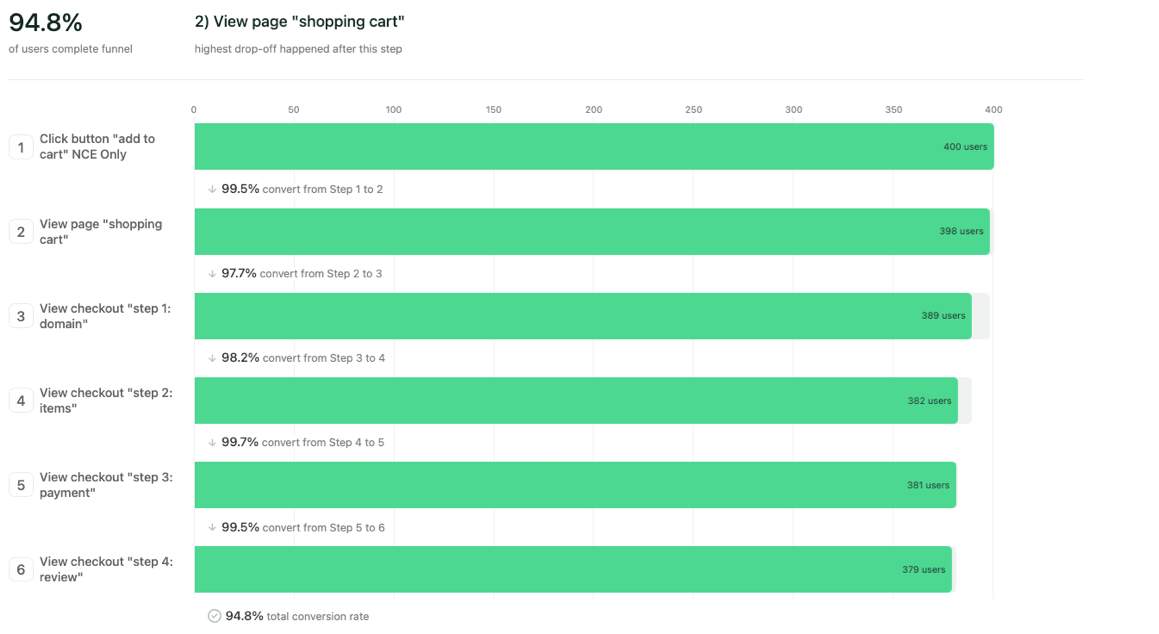
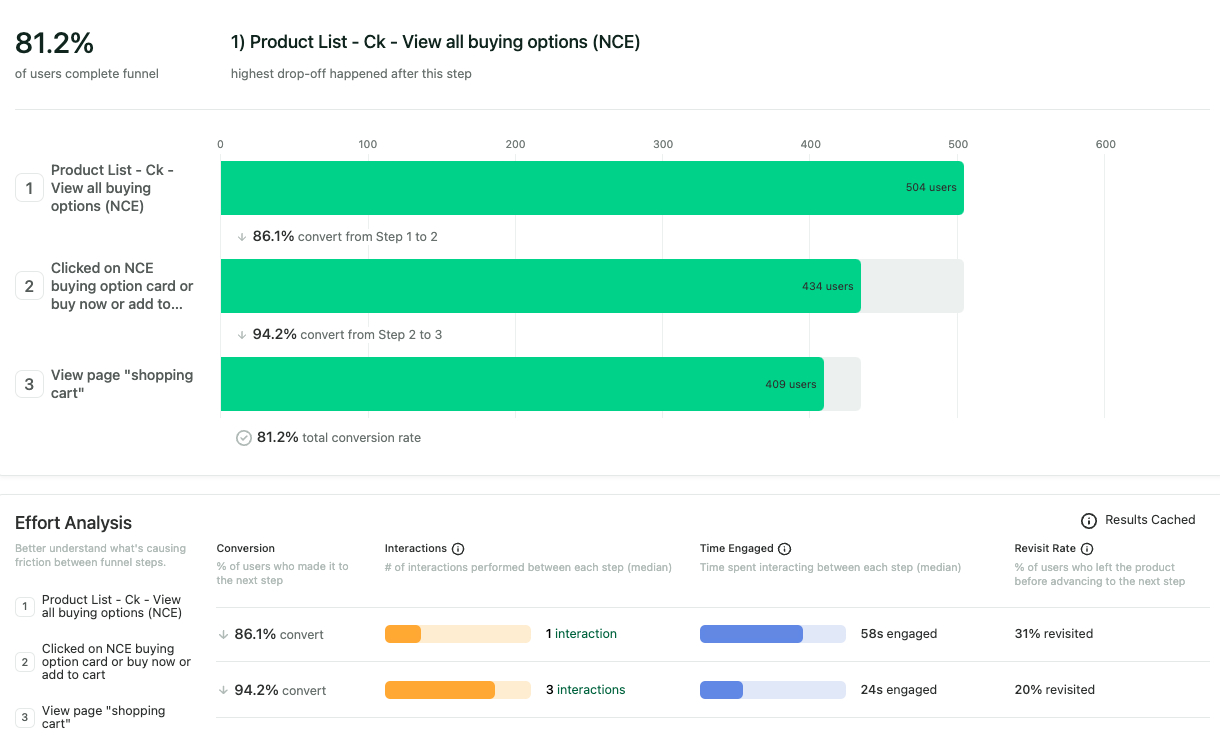
re-doing teh NCE adoption section

diff --git a/NCE.html b/NCE.html
@@ -201,7 +201,7 @@ This project involved numerous meetings and discussions with key stakeholders an
                                <p class="portfolio-detail-body">
                               
                         I also spoke to partners during monthly recurring customer preview calls. The feedback from partners was that they wanted the new functionality being 
-                        introduced by Microsoft and they felt that their customers would also demand these enhancements. Speaking to development managers from within the business 
+                        introduced by Microsoft and they felt that their customers would also demand these enhancements. Speaking to stakeholders from within the business 
                         they gave me the same feedback from customers. So both the business and our customers were aligned that these changes were needed and a top priority.
                         
                                </p>
@@ -318,7 +318,7 @@ This project involved numerous meetings and discussions with key stakeholders an
 	            <div class="col-xs-12 number-heading research-padding">
 	              <p class="portfolio-detail-body ">
 	 As part of the New Commercial Experience Microsoft introduced an additional purchasing option that had to be brought into the portal. Up to this point there were two purchasing 
-   options 1) Monthly Billing with a Monthly Commitmentand 2) Yearly Billing with an Annual Commitment. The New Commerce Experience <b>added a third option - an Annual Commitment Term with a Monthly Billing option.</b>
+   options 1) Monthly Billing with a Monthly Commitmentand 2) Yearly Billing with an Annual Commitment. The <b>New Commerce Experience added a third option - an Annual Commitment Term with a Monthly Billing option.</b>
    Reviewing the portal it became clear that <b>the purchasing cards in use would not be suitable for this additional third buying option.</b> This lead to a re-design of the product list and product detail pages.
   
 	         </p>
@@ -389,7 +389,8 @@ This project involved numerous meetings and discussions with key stakeholders an
                                 <div class="col-lg-6">
                              <p class="portfolio-detail-body">
 
-                            An early approach was to to introduce the thrid buying option onto the product card in the product list. This design was tested but failed the UAT with users, as it was 
+                            An early approach was to to introduce the thrid buying option onto the product card in the product list.
+                             This design was tested with users, but it was 
                             felt to be overly complex and confusing.     </p>
 
                             <p class="portfolio-detail-body">
@@ -414,7 +415,7 @@ This project involved numerous meetings and discussions with key stakeholders an
                               
                             <p class="portfolio-detail-body">
                               
-                              A better approach was to use one purchasing option on the product card where the 'Buy Now'
+                              A re-designed approach was to use one purchasing option on the product card where the 'Buy Now'
                                button would be changed to 
                                'View all buying options', the user flow would now change to go into the product card detail where the user could
                                choose a buying option and then move into the checkout flow.
@@ -470,7 +471,7 @@ This project involved numerous meetings and discussions with key stakeholders an
                                     The third buying option was introduced into the product detail card. This lead to a complete re-design of this page.
                               
                                     Initially the purchasing offerings were grouped by the commitment term, being either monthly or annual. 
-                                    The additional billing options were then displayed. <b>This approach was tested with users in the business and was felt to be too complex</b>, so was not chosen as a final design proposal.
+                                    The additional billing options were then displayed. This approach was tested with users in the business and was felt to be too complex, so was not chosen as a final design proposal.
                                                  </p>
                                                  </div>
 
@@ -525,10 +526,16 @@ This project involved numerous meetings and discussions with key stakeholders an
                   <div class="row">
                     <div class="col-xs-12">
                       <h3 class="number-subheading  solace-padding">
-                       Funnel: Cart > Checkout Analysis </h3>
+                       Funnel: Product > Shopping Cart Analysis </h3>
                       <p class="portfolio-detail-body">
-                 It was important to analyse user adoption of the new buying cards. Heap Analytics was used for this data analysis.
-                  A new event was defined in Heap and used to include the New Commerce products in the Cart > Checout funnel.
+                 It was important to analyse user adoption of the new buying cards in the product list/catalogue as well as in the product detail.
+                  Heap Analytics was used for this data analysis.
+                  New events were defined in Heap and used to count engagement with the new NCE product cards in the product list page. The clicks
+                  on the 'View all buying options' button on the NCE card were obtained. When the user clicks on this button they are taken to the product detail page.
+                  The engagement on the new NCE product options were defined in an event along with the clicks on the 'Buy Now' or 'Add to Cart' buttons on this page.
+                  The conversion was measured between these steps and from there the conversion to the shopping cart page was also included.
+                  </p>
+                  <p class="portfolio-detail-body">
                   The intention was to validate the new design and to also obtain quantitative data that backed up the qualitative feedback from 
                   users during the UAT sessions of the new purchasing cards. The analysis was run for a 6 month period, following on from the 
                   deployment of the new cards to production in March 2022.
@@ -543,7 +550,7 @@ This project involved numerous meetings and discussions with key stakeholders an
                                        <div class="row">
                                         <div class="col-xs-6">
                                           <h2 class="retro-sub-heading2 ">
-                                           Funnel: Cart > Checkout (March 1st - Aug 31st 2022) </h2>
+                                           Funnel: NCE Product > Shopping Cart (March 1st - Aug 31st 2022) </h2>
                     
                                            </div> 
                                            </div>
@@ -560,12 +567,27 @@ This project involved numerous meetings and discussions with key stakeholders an
                                                  <div class="row">
                                                   <div class="col-xs-12 ">
                                                   <p class="portfolio-detail-body">
-                                                    The New Commerce card funnel had a conversion rate of 94.8% for the same period analysed. 
-                                             
-                          
-                                                    The highest drop-off for New Commerce was happening in step 2 - the shopping cart page.
-                                                    Some users were moving into the cart but they were not continuing to the checkout to complete the buying journey.
-                                                    A separate piece of analysis was undertaken to determine reasons for user abandonment in step 2 of the funnel. However the overall
+                                                   
+                                                    The overall conversion rate from users clicking on the NCE product in the product list
+                                                     to adding the item and moving to the checkout page was 81.2% for the period analysed.
+                                                     The median time engaged with the buying option cards in the product detail was 58 seconds.
+                                                     So it was taking users less than a minute to find the offering they needed before deciding to buy 
+                                                     and moving to the checkout page.
+                                                    </p>
+                                                    
+                                                    <p class="portfolio-detail-body">
+                                                    The highest drop-off for was happening in step 1 - the product detail page.
+                                                    Some users were moving into the product detail but they were not continuing to the checkout to complete the buying journey.
+                                                    A separate piece of analysis was undertaken to determine reasons for user abandonment in step 1 of the funnel. It was determined that this 
+                                                    abandonment could be users searching for a different product, adding to cart but not moving to the cart or being logged off the portal. 
+                                                    </p>
+                                                    <p class="portfolio-detail-body">
+                                                    The steps taken to improve the drop off from users included a re-design of the product catalogue<A href="catalogue.html"><b class="blue-brand"> (view project) </b></a> so the products listed would 
+                                                    be based on partners frequent order history,
+                                                    thus helping them find 
+                                                     products they needed. The mini-cart was also re-designed to introduce common design patters <A href="cart.html"><b class="blue-brand">(view project)</b></a>, and the logoff time in the portal was
+                                                     increased from 5 minutes to 15 minutes.
+                                                    However the overall
                                                     conversion rate was very positive and validated the new design.
                                                        </p>
                                                   
@@ -576,7 +598,7 @@ This project involved numerous meetings and discussions with key stakeholders an
 
 
                                      <div class="row">
-                                    <div class="col-lg-12 solace-padding">
+                                    <div class="col-lg-12 image-padding">
                                       <h1 class="adoption-metrics">
                                      <U>Adoption Stats - (March 1st - Aug 31st 2022)</U></h1>
                                    
@@ -589,18 +611,18 @@ This project involved numerous meetings and discussions with key stakeholders an
                                                        <div class="row  ">
                                                         <div class="col-lg-4">
                                                           <h1 class="NCE-buying-h1">
-                                                            94.8%  </h1>
+                                                            81.2% </h1>
                                                             <h2 class="NCE-buying-h2 bottom-padding">
-                                                              Cart > Checkout funnel completion rate </h2>
+                                                              NCE Product  > Shopping Cart funnel completion rate </h2>
                                                              
 
                                                            </div> 
 
                                                            <div class="col-lg-4">
                                                             <h1 class="NCE-buying-h1">
-                                                           2K+ </h1>
+                                                           3.1K </h1>
                                                               <h2 class="NCE-buying-h2 ">
-                                                            Products added to cart</h2>
+                                                            NCE Subscriptions Purchased</h2>
                                                             
                                                              </div> 
                                                              
